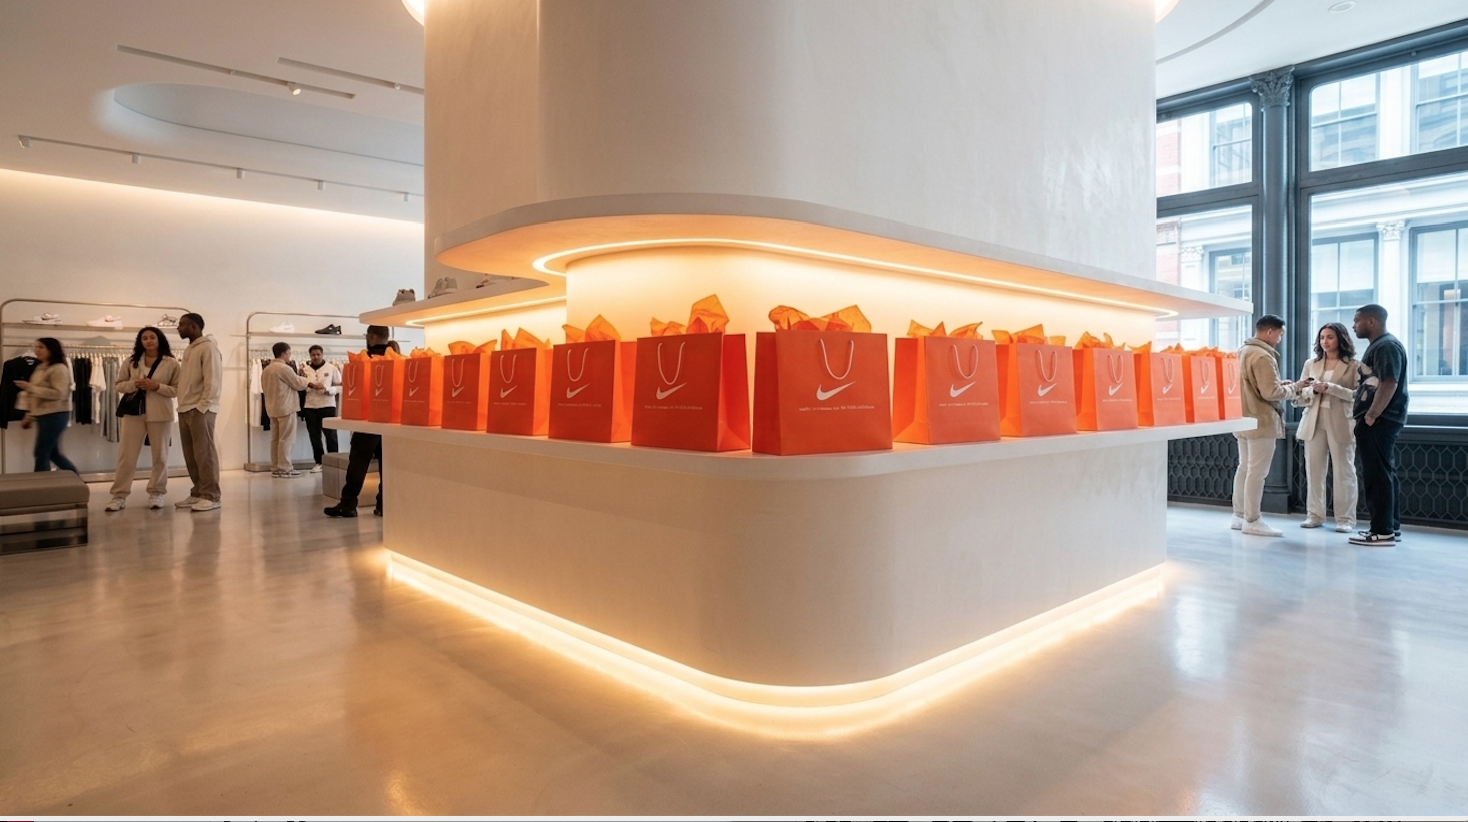
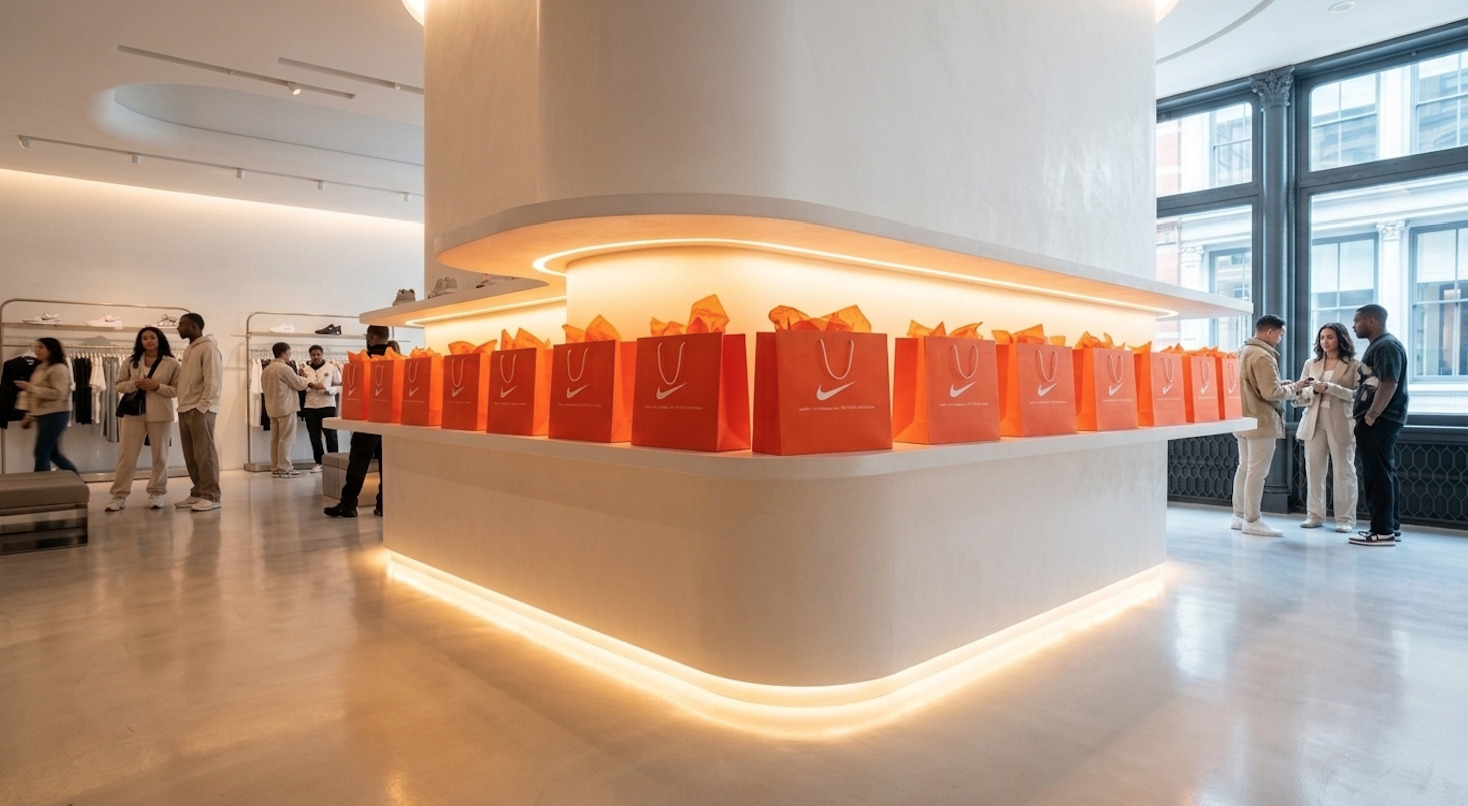
refactor: enhance image component and update assets
- Add support for object-position, scaleOffset, and yOffset props to SubtleVideoMotionImage.
- Standardize Nike Soho asset loading to use local public paths.

diff --git a/src/App.tsx b/src/App.tsx
@@ -45,7 +45,7 @@ const nikeSohoAsset6 = "/nike_soho_asset_6.png";
 const nikeSohoAsset7 = "https://lh3.googleusercontent.com/d/1uU-Tjbr2t3gGHbiUgEmB46Qbjvt4QVCk";
 const nikeSohoAsset8 = "https://lh3.googleusercontent.com/d/1oBORiDq5VoqOwfzLwL3zXFGtnfBtpcC7";
 const nikeSohoAsset9 = "https://lh3.googleusercontent.com/d/1b5mhvbew9_1CPqMp_Na30x_wvcJehLGa";
-const nikeSohoAsset10 = "https://lh3.googleusercontent.com/d/1g3nIl_R1ptONj0l02RtHLusTBZx9RpnP";
+const nikeSohoAsset10 = "/nike_soho_asset_10.png";
 const nikeSohoAsset11 = "https://lh3.googleusercontent.com/d/1LygB3W8HUTFoRXengg523DHQmLiXntyI";
 const nikeSohoAsset12 = "/nike_soho_asset_12.png";
 
@@ -558,13 +558,19 @@ const SubtleVideoMotionImage = ({
   alt, 
   className = "",
   tag = "Cinematic Slow-Mo • 4K",
-  showWatermark = true
+  showWatermark = true,
+  objectPosition = "center",
+  scaleOffset = 0,
+  yOffset = 0
 }: { 
   src: string; 
   alt: string; 
   className?: string; 
   tag?: string | null;
   showWatermark?: boolean;
+  objectPosition?: string;
+  scaleOffset?: number;
+  yOffset?: number;
 }) => {
   return (
     <div className={`relative w-full h-full overflow-hidden select-none bg-neutral-950 ${className}`}>
@@ -581,13 +587,18 @@ const SubtleVideoMotionImage = ({
       <motion.img
         src={src}
         alt={alt}
-        className="w-full h-full object-cover transform-gpu will-change-transform scale-[1.03]"
+        className="w-full h-full object-cover transform-gpu will-change-transform"
         referrerPolicy="no-referrer"
-        initial={{ scale: 1.04, x: "-1%", y: "-0.8%" }}
+        onError={(e) => {
+          if (src && (src.includes("1g3nIl_R1ptONj0l02RtHLusTBZx9RpnP") || src.includes("nike_soho_asset_10"))) {
+            (e.currentTarget as HTMLImageElement).src = "/nike_soho_asset_10.png";
+          }
+        }}
+        initial={{ scale: 1.05 + scaleOffset, x: "-1%", y: `${yOffset - 0.8}%` }}
         animate={{
-          scale: [1.04, 1.11, 1.07, 1.13, 1.04],
+          scale: [1.05 + scaleOffset, 1.12 + scaleOffset, 1.08 + scaleOffset, 1.14 + scaleOffset, 1.05 + scaleOffset],
           x: ["-1%", "1.2%", "-0.8%", "1.4%", "-1%"],
-          y: ["-0.8%", "0.9%", "-0.4%", "0.7%", "-0.8%"],
+          y: [`${yOffset - 0.8}%`, `${yOffset + 1.2}%`, `${yOffset - 0.4}%`, `${yOffset + 1.0}%`, `${yOffset - 0.8}%`],
         }}
         transition={{
           duration: 32, // Extended 32s for authentic slow-motion frame pacing
@@ -595,6 +606,7 @@ const SubtleVideoMotionImage = ({
           ease: [0.37, 0, 0.63, 1], // Silky smooth sinusoidal acceleration
         }}
         style={{
+          objectPosition,
           backfaceVisibility: 'hidden',
           WebkitBackfaceVisibility: 'hidden',
           filter: 'contrast(1.04) brightness(0.98) saturate(1.02)',
@@ -3570,16 +3582,19 @@ export default function App() {
                         </div>
                       </div>
 
-                      {/* Nike SoHo Section: Final Spatial & Storefront Showcase */}
+                      {/* Nike SoHo Section: Flagship Spatial Architecture & Cinematic Video Motion */}
                       <div className="space-y-12">
                         <div 
                           className="overflow-hidden bg-black/5 cursor-zoom-in rounded-2xl md:rounded-3xl aspect-[16/9] md:aspect-[21/10] group relative shadow-2xl"
                           onClick={() => setFullscreenImage(nikeSohoAsset10)}
                         >
-                          <SubtleMotionImage 
+                          <SubtleVideoMotionImage 
                             src={nikeSohoAsset10} 
                             alt="Nike SoHo 529 Broadway Spatial Architecture & Retail Experience"
-                            cinematic={true}
+                            tag={null}
+                            objectPosition="center 30%"
+                            yOffset={3.5}
+                            scaleOffset={0.07}
                           />
                         </div>
                         <div className="max-w-4xl space-y-6">
